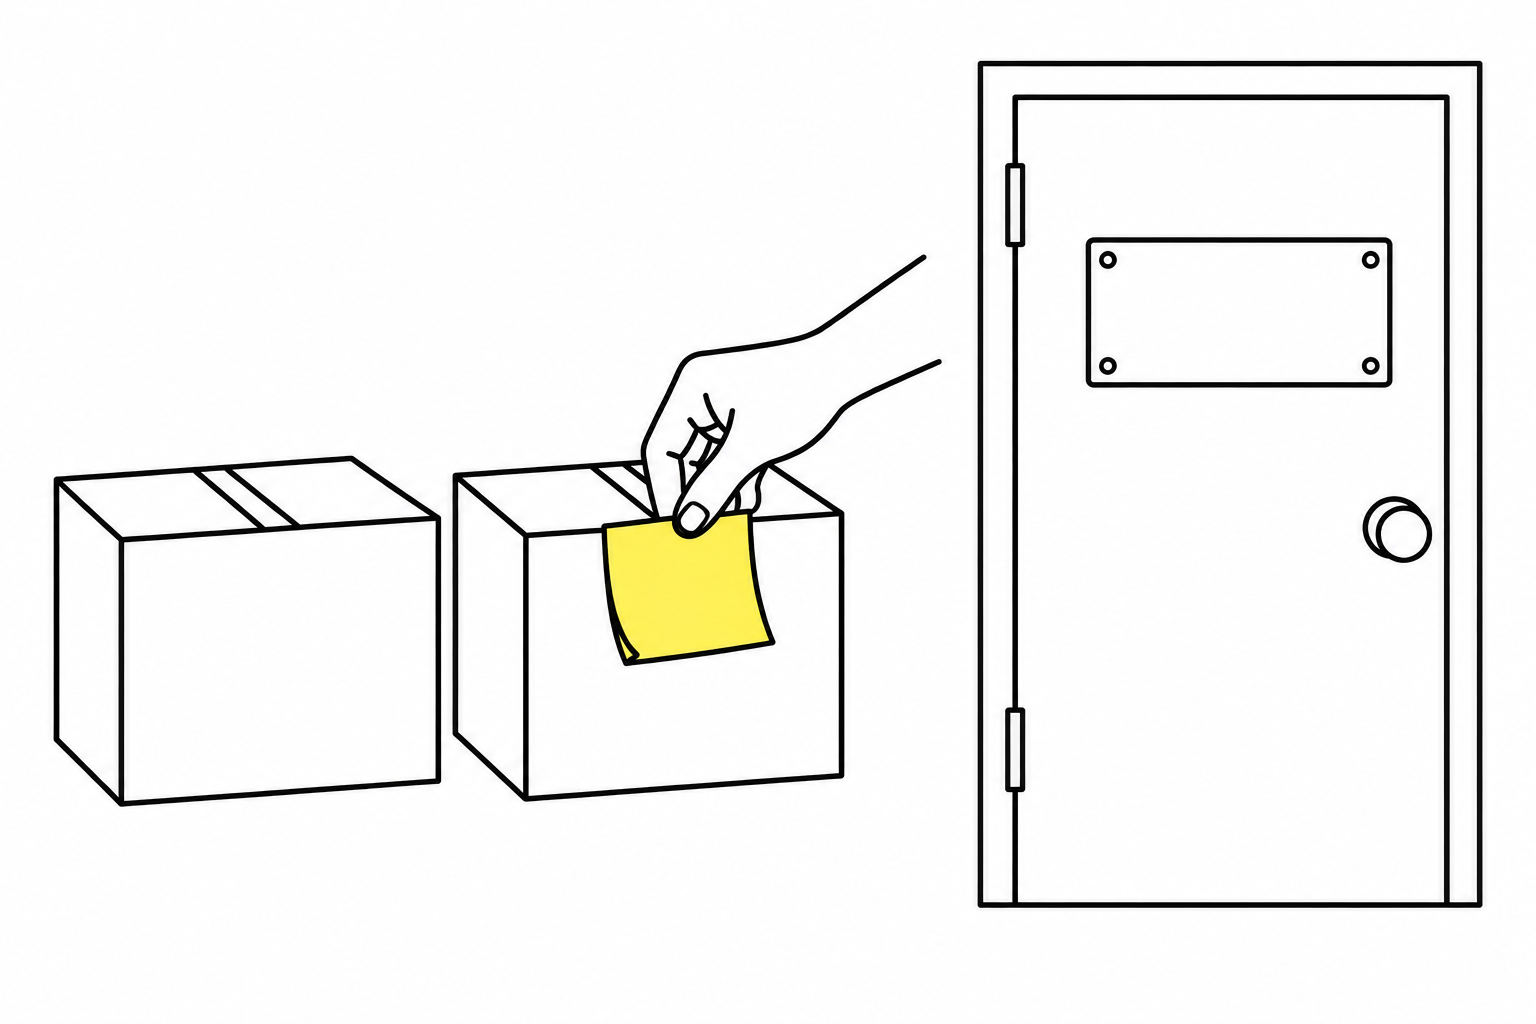
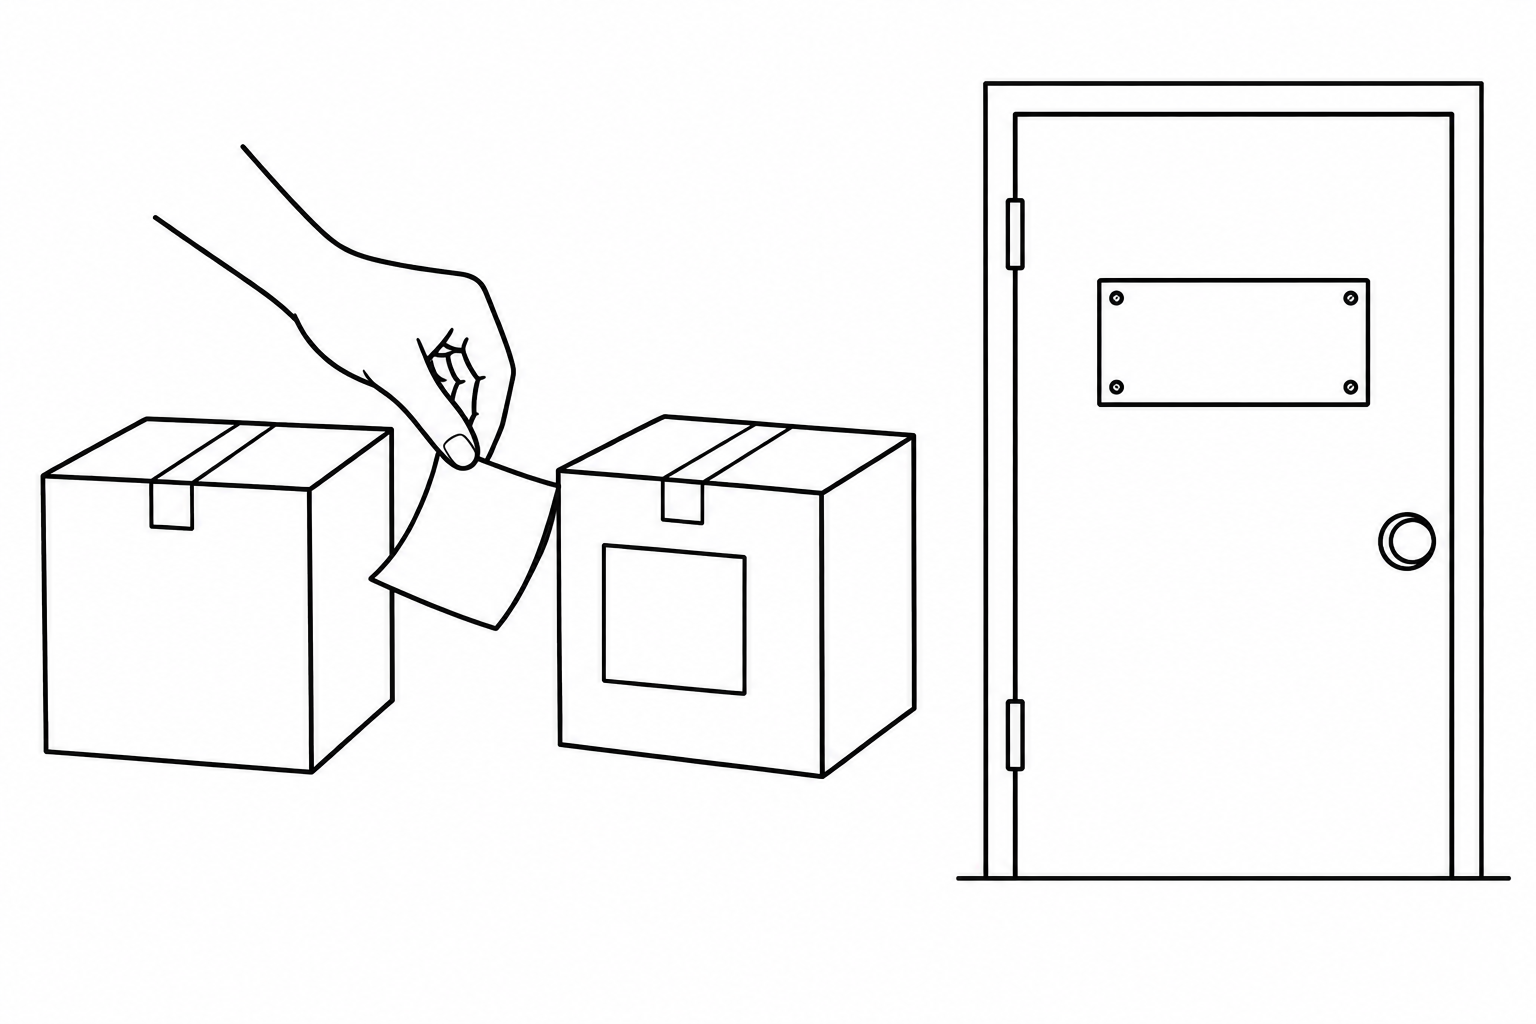
생성 이미지 자리 12곳을 흑백으로 바꾸고 2장 그림을 흑백으로 다시 생성

diff --git a/book/01장-JavaScript-시작하기.md b/book/01장-JavaScript-시작하기.md
@@ -30,16 +30,16 @@ HTML과 CSS로 만든 화면 위에 동작을 더하는 것이 JavaScript의 일
 | 예 | 제목, 버튼, 입력칸 | 글자 색, 테두리, 배치 | 버튼을 누르면 글자 바꾸기 |
 
 세 언어가 하는 일은 집에 빗대 볼 수 있습니다.
-HTML은 벽과 문을 세운 집의 뼈대이고, CSS는 벽에 칠한 페인트입니다.
+HTML은 벽과 문을 세운 집의 뼈대이고, CSS는 벽지와 커튼 같은 꾸밈입니다.
 JavaScript는 스위치를 누르면 전등이 켜지게 하는 전기 배선입니다.
 
-**시각자료 — 뼈대, 페인트, 전기 배선**
+**시각자료 — 뼈대, 꾸밈, 전기 배선**
 
 ```text
 [생성 이미지: images/01/html-css-js-house.png]
-장면: 같은 모양의 작은 집 세 채가 왼쪽부터 나란히 있다. 첫째 집은 벽과 문의 선만 있다. 둘째 집은 벽 전체가 칠해져 있다. 셋째 집은 둘째 집처럼 칠해져 있고, 손가락이 벽의 스위치를 누르자 천장 전등이 켜져 빛줄기가 퍼진다.
+장면: 같은 모양의 작은 집 세 채가 왼쪽부터 나란히 있다. 첫째 집은 벽과 문의 선만 있다. 둘째 집은 벽에 줄무늬 벽지가 발려 있고 창문에 커튼이 달려 있다. 셋째 집은 둘째 집과 같고, 손가락이 벽의 스위치를 누르자 천장 전등이 켜져 빛줄기가 퍼진다.
 비율: 가로 3:2
-스타일: 굵기가 일정한 검정 외곽선의 단순한 선 그림. 흰 배경. 그림자와 그라데이션 없음. 채움 색은 노랑(둘째 집과 셋째 집의 벽) 한 가지. 글자, 숫자, 기호는 넣지 않는다.
+스타일: 굵기가 일정한 검정 외곽선의 단순한 선 그림. 흰 배경. 그림자와 그라데이션 없음. 흰색과 검정만 쓴다. 글자, 숫자, 기호는 넣지 않는다.
 참고 그림: book-manuscript/assets/style-ref/line-art-shark.png
 ```
 

diff --git a/book/12장-이벤트-처리.md b/book/12장-이벤트-처리.md
@@ -44,7 +44,7 @@
 [생성 이미지: images/12/event-doorbell.png]
 장면: 왼쪽은 현관문 옆 벽의 초인종 버튼을 손가락이 누르는 모습이다. 버튼에서 전선 한 줄이 벽을 따라 오른쪽 집 안으로 이어지고, 집 안 벽에 달린 종 모양 벨이 흔들리며 울린다. 벨 옆에 짧은 진동 선 몇 개가 있다.
 비율: 가로 3:2
-스타일: 굵기가 일정한 검정 외곽선의 단순한 선 그림. 흰 배경. 그림자와 그라데이션 없음. 채움 색은 노랑(벨) 한 가지. 글자, 숫자, 기호는 넣지 않는다.
+스타일: 굵기가 일정한 검정 외곽선의 단순한 선 그림. 흰 배경. 그림자와 그라데이션 없음. 흰색과 검정만 쓴다. 글자, 숫자, 기호는 넣지 않는다.
 참고 그림: book-manuscript/assets/style-ref/line-art-shark.png
 ```
 
@@ -516,7 +516,7 @@ Console 탭에도 다음 두 줄이 순서대로 출력됩니다.
 [생성 이미지: images/12/delegation-guard.png]
 장면: 아파트 입구 옆 경비실 창구에서 경비원이 택배 상자를 받는다. 창구 앞에 상자가 몇 개 쌓여 있고 상자마다 빈 송장 종이가 붙어 있다. 뒤쪽 아파트 건물에 창문이 여러 개 있다.
 비율: 가로 3:2
-스타일: 굵기가 일정한 검정 외곽선의 단순한 선 그림. 흰 배경. 그림자와 그라데이션 없음. 채움 색은 노랑(송장 종이) 한 가지. 글자, 숫자, 기호는 넣지 않는다.
+스타일: 굵기가 일정한 검정 외곽선의 단순한 선 그림. 흰 배경. 그림자와 그라데이션 없음. 흰색과 검정만 쓴다. 글자, 숫자, 기호는 넣지 않는다.
 참고 그림: book-manuscript/assets/style-ref/line-art-shark.png
 ```
 

diff --git a/book/06장-구조분해-할당과-전개-연산자.md b/book/06장-구조분해-할당과-전개-연산자.md
@@ -501,14 +501,14 @@ true
 
 ```text
 [생성 이미지: images/06/spread-new-box.png]
-장면: 왼쪽에 뚜껑이 열린 상자가 있고 안에 책, 컵, 메달이 들어 있다. 오른쪽에 같은 크기의 새 상자가 있고 안에 똑같은 책과 컵이 들어 있다. 손이 칠한 메달 하나를 새 상자에 넣고 있다.
+장면: 왼쪽에 뚜껑이 열린 상자가 있고 안에 책, 컵, 메달이 들어 있다. 오른쪽에 같은 크기의 새 상자가 있고 안에 똑같은 책과 컵이 들어 있다. 손이 리본 달린 큰 메달 하나를 새 상자에 넣고 있다.
 비율: 가로 3:2
-스타일: 굵기가 일정한 검정 외곽선의 단순한 선 그림. 흰 배경. 그림자와 그라데이션 없음. 채움 색은 노랑(손에 든 메달) 한 가지. 글자, 숫자, 기호는 넣지 않는다.
+스타일: 굵기가 일정한 검정 외곽선의 단순한 선 그림. 흰 배경. 그림자와 그라데이션 없음. 흰색과 검정만 쓴다. 글자, 숫자, 기호는 넣지 않는다.
 참고 그림: book-manuscript/assets/style-ref/line-art-shark.png
 ```
 
 왼쪽 상자가 원본 `member`, 오른쪽 상자가 `{ ...member, grade: "골드" }`로 만든 새 객체입니다.
-책과 컵은 펼쳐 옮긴 `name`과 `age`이고, 손에 든 노란 메달이 새로 넣은 `grade`입니다.
+책과 컵은 펼쳐 옮긴 `name`과 `age`이고, 손에 든 리본 메달이 새로 넣은 `grade`입니다.
 
 ### 배열 복사하기
 

diff --git a/book/03장-연산자와-조건문.md b/book/03장-연산자와-조건문.md
@@ -482,9 +482,9 @@ true
 
 ```text
 [생성 이미지: images/03/condition-fork.png]
-장면: 한 사람이 Y자 갈림길 앞에 서서 갈림길 가운데에 선 신호등을 본다. 신호등은 위쪽 등 하나만 켜져 있다. 왼쪽 길 끝에는 문이 열린 가게가 있고, 오른쪽 길 끝에는 셔터가 내려간 가게가 있다.
+장면: 한 사람이 Y자 갈림길 앞에 서서 갈림길 가운데에 선 신호등을 본다. 신호등은 위쪽 등 하나에서만 짧은 빛줄기가 퍼진다. 왼쪽 길 끝에는 문이 열린 가게가 있고, 오른쪽 길 끝에는 셔터가 내려간 가게가 있다.
 비율: 가로 3:2
-스타일: 굵기가 일정한 검정 외곽선의 단순한 선 그림. 흰 배경. 그림자와 그라데이션 없음. 채움 색은 초록(신호등의 켜진 등) 한 가지. 글자, 숫자, 기호는 넣지 않는다.
+스타일: 굵기가 일정한 검정 외곽선의 단순한 선 그림. 흰 배경. 그림자와 그라데이션 없음. 흰색과 검정만 쓴다. 글자, 숫자, 기호는 넣지 않는다.
 참고 그림: book-manuscript/assets/style-ref/line-art-shark.png
 ```
 

diff --git a/book/15장-CSS-Grid.md b/book/15장-CSS-Grid.md
@@ -92,7 +92,7 @@ Grid는 칸막이가 있는 정리함에 빗댈 수 있습니다.
 [생성 이미지: images/15/grid-organizer.png]
 장면: 위에서 내려다본 직사각형 정리함이 칸막이로 두 열 두 행, 모두 네 칸으로 나뉘어 있다. 윗줄 두 칸에는 같은 모양의 카드가 하나씩 들어 있고, 손이 세 번째 카드를 아랫줄 왼쪽 칸에 넣고 있다. 아랫줄 오른쪽 칸은 비어 있다.
 비율: 가로 3:2
-스타일: 굵기가 일정한 검정 외곽선의 단순한 선 그림. 흰 배경. 그림자와 그라데이션 없음. 채움 색은 파랑(카드) 한 가지. 글자, 숫자, 기호는 넣지 않는다.
+스타일: 굵기가 일정한 검정 외곽선의 단순한 선 그림. 흰 배경. 그림자와 그라데이션 없음. 흰색과 검정만 쓴다. 글자, 숫자, 기호는 넣지 않는다.
 참고 그림: book-manuscript/assets/style-ref/line-art-shark.png
 ```
 

diff --git a/book/04장-배열과-반복문.md b/book/04장-배열과-반복문.md
@@ -185,7 +185,7 @@ console.log(cart.length);
 [생성 이미지: images/04/loop-stamp.png]
 장면: 책상 위 종이에 네모 칸 다섯 개가 가로로 한 줄 있다. 왼쪽 세 칸에는 같은 동그란 도장 자국이 찍혀 있고, 손이 도장을 들고 넷째 칸 위에 있다. 다섯째 칸은 비어 있다.
 비율: 가로 3:2
-스타일: 굵기가 일정한 검정 외곽선의 단순한 선 그림. 흰 배경. 그림자와 그라데이션 없음. 채움 색은 빨강(도장 자국과 도장 면) 한 가지. 글자, 숫자, 기호는 넣지 않는다.
+스타일: 굵기가 일정한 검정 외곽선의 단순한 선 그림. 흰 배경. 그림자와 그라데이션 없음. 흰색과 검정만 쓴다. 글자, 숫자, 기호는 넣지 않는다.
 참고 그림: book-manuscript/assets/style-ref/line-art-shark.png
 ```
 

diff --git a/book/18장-AJAX와-fetch.md b/book/18장-AJAX와-fetch.md
@@ -52,7 +52,7 @@ AJAX는 식당에서 물 한 잔만 더 받는 일에 빗댈 수 있습니다.
 [생성 이미지: images/18/ajax-refill.png]
 장면: 식탁 위에 밥그릇, 반찬 접시 몇 개, 빈 유리컵 하나가 놓여 있고 손님이 식사 중이다. 직원이 물병으로 빈 컵에만 물을 따르고 있다.
 비율: 가로 3:2
-스타일: 굵기가 일정한 검정 외곽선의 단순한 선 그림. 흰 배경. 그림자와 그라데이션 없음. 채움 색은 파랑(따르는 물) 한 가지. 글자, 숫자, 기호는 넣지 않는다.
+스타일: 굵기가 일정한 검정 외곽선의 단순한 선 그림. 흰 배경. 그림자와 그라데이션 없음. 흰색과 검정만 쓴다. 글자, 숫자, 기호는 넣지 않는다.
 참고 그림: book-manuscript/assets/style-ref/line-art-shark.png
 ```
 

diff --git a/book/16장-이벤트-루프.md b/book/16장-이벤트-루프.md
@@ -33,7 +33,7 @@
 [생성 이미지: images/16/single-cashier.png]
 장면: 계산대 뒤에 계산원 한 명이 서서 맨 앞 손님의 장바구니 물건을 계산한다. 그 뒤로 장바구니를 든 손님 세 명이 한 줄로 서 있다. 계산대 뒤 벽에는 숫자 없는 둥근 시계가 걸려 있다.
 비율: 가로 3:2
-스타일: 굵기가 일정한 검정 외곽선의 단순한 선 그림. 흰 배경. 그림자와 그라데이션 없음. 채움 색은 파랑(계산원의 앞치마) 한 가지. 글자, 숫자, 기호는 넣지 않는다.
+스타일: 굵기가 일정한 검정 외곽선의 단순한 선 그림. 흰 배경. 그림자와 그라데이션 없음. 흰색과 검정만 쓴다. 글자, 숫자, 기호는 넣지 않는다.
 참고 그림: book-manuscript/assets/style-ref/line-art-shark.png
 ```
 

diff --git a/book/17장-비동기-처리.md b/book/17장-비동기-처리.md
@@ -172,7 +172,7 @@ Promise는 카페의 진동벨에 빗댈 수 있습니다.
 [생성 이미지: images/17/promise-pager.png]
 장면: 카페 계산대 앞에서 손님의 손이 직원에게 네모난 진동벨을 받는다. 계산대 뒤에서는 다른 직원이 컵에 음료를 따르고 있다.
 비율: 가로 3:2
-스타일: 굵기가 일정한 검정 외곽선의 단순한 선 그림. 흰 배경. 그림자와 그라데이션 없음. 채움 색은 빨강(진동벨의 불빛 부분) 한 가지. 글자, 숫자, 기호는 넣지 않는다.
+스타일: 굵기가 일정한 검정 외곽선의 단순한 선 그림. 흰 배경. 그림자와 그라데이션 없음. 흰색과 검정만 쓴다. 글자, 숫자, 기호는 넣지 않는다.
 참고 그림: book-manuscript/assets/style-ref/line-art-shark.png
 ```
 
